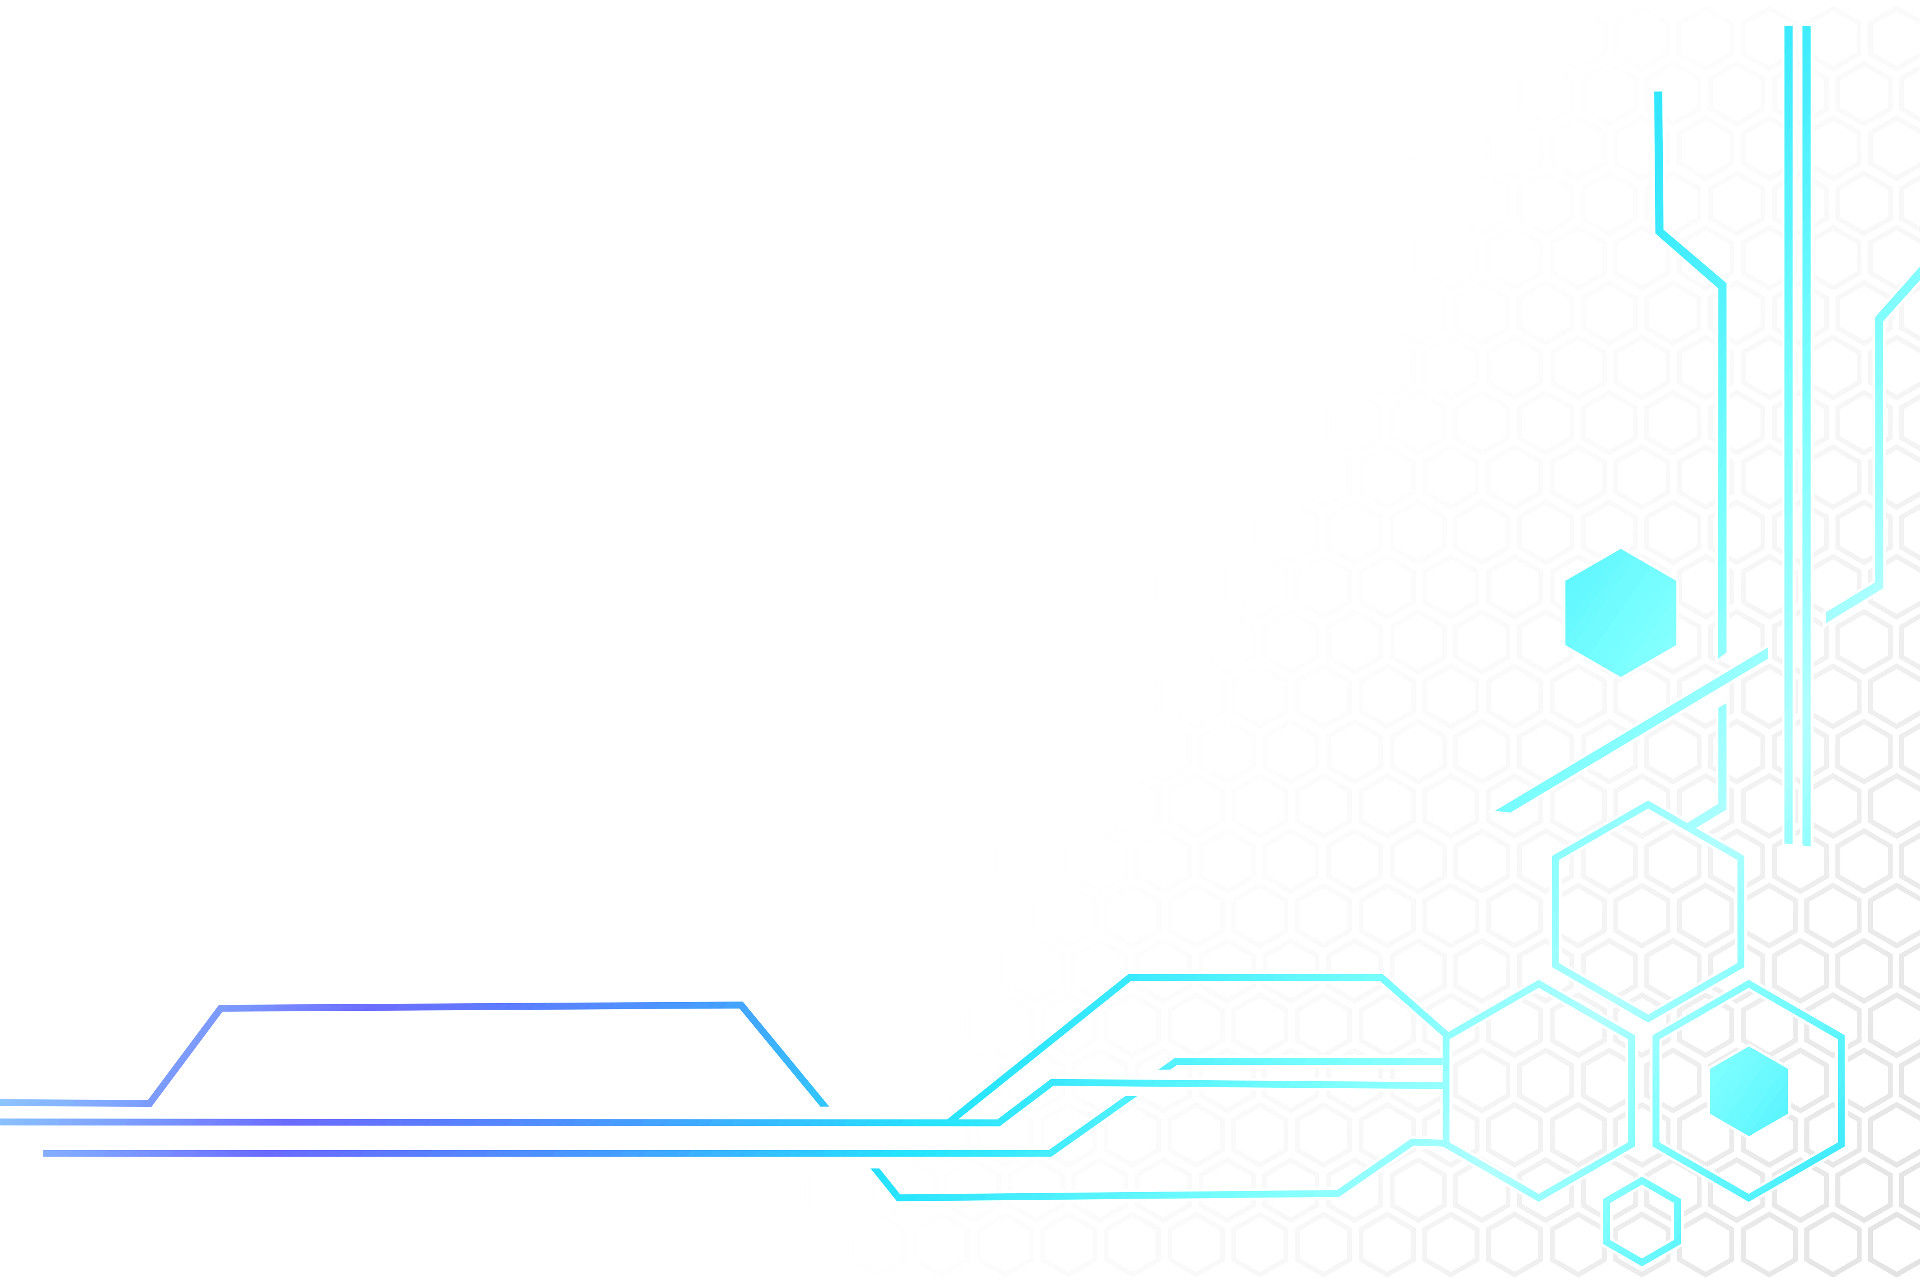
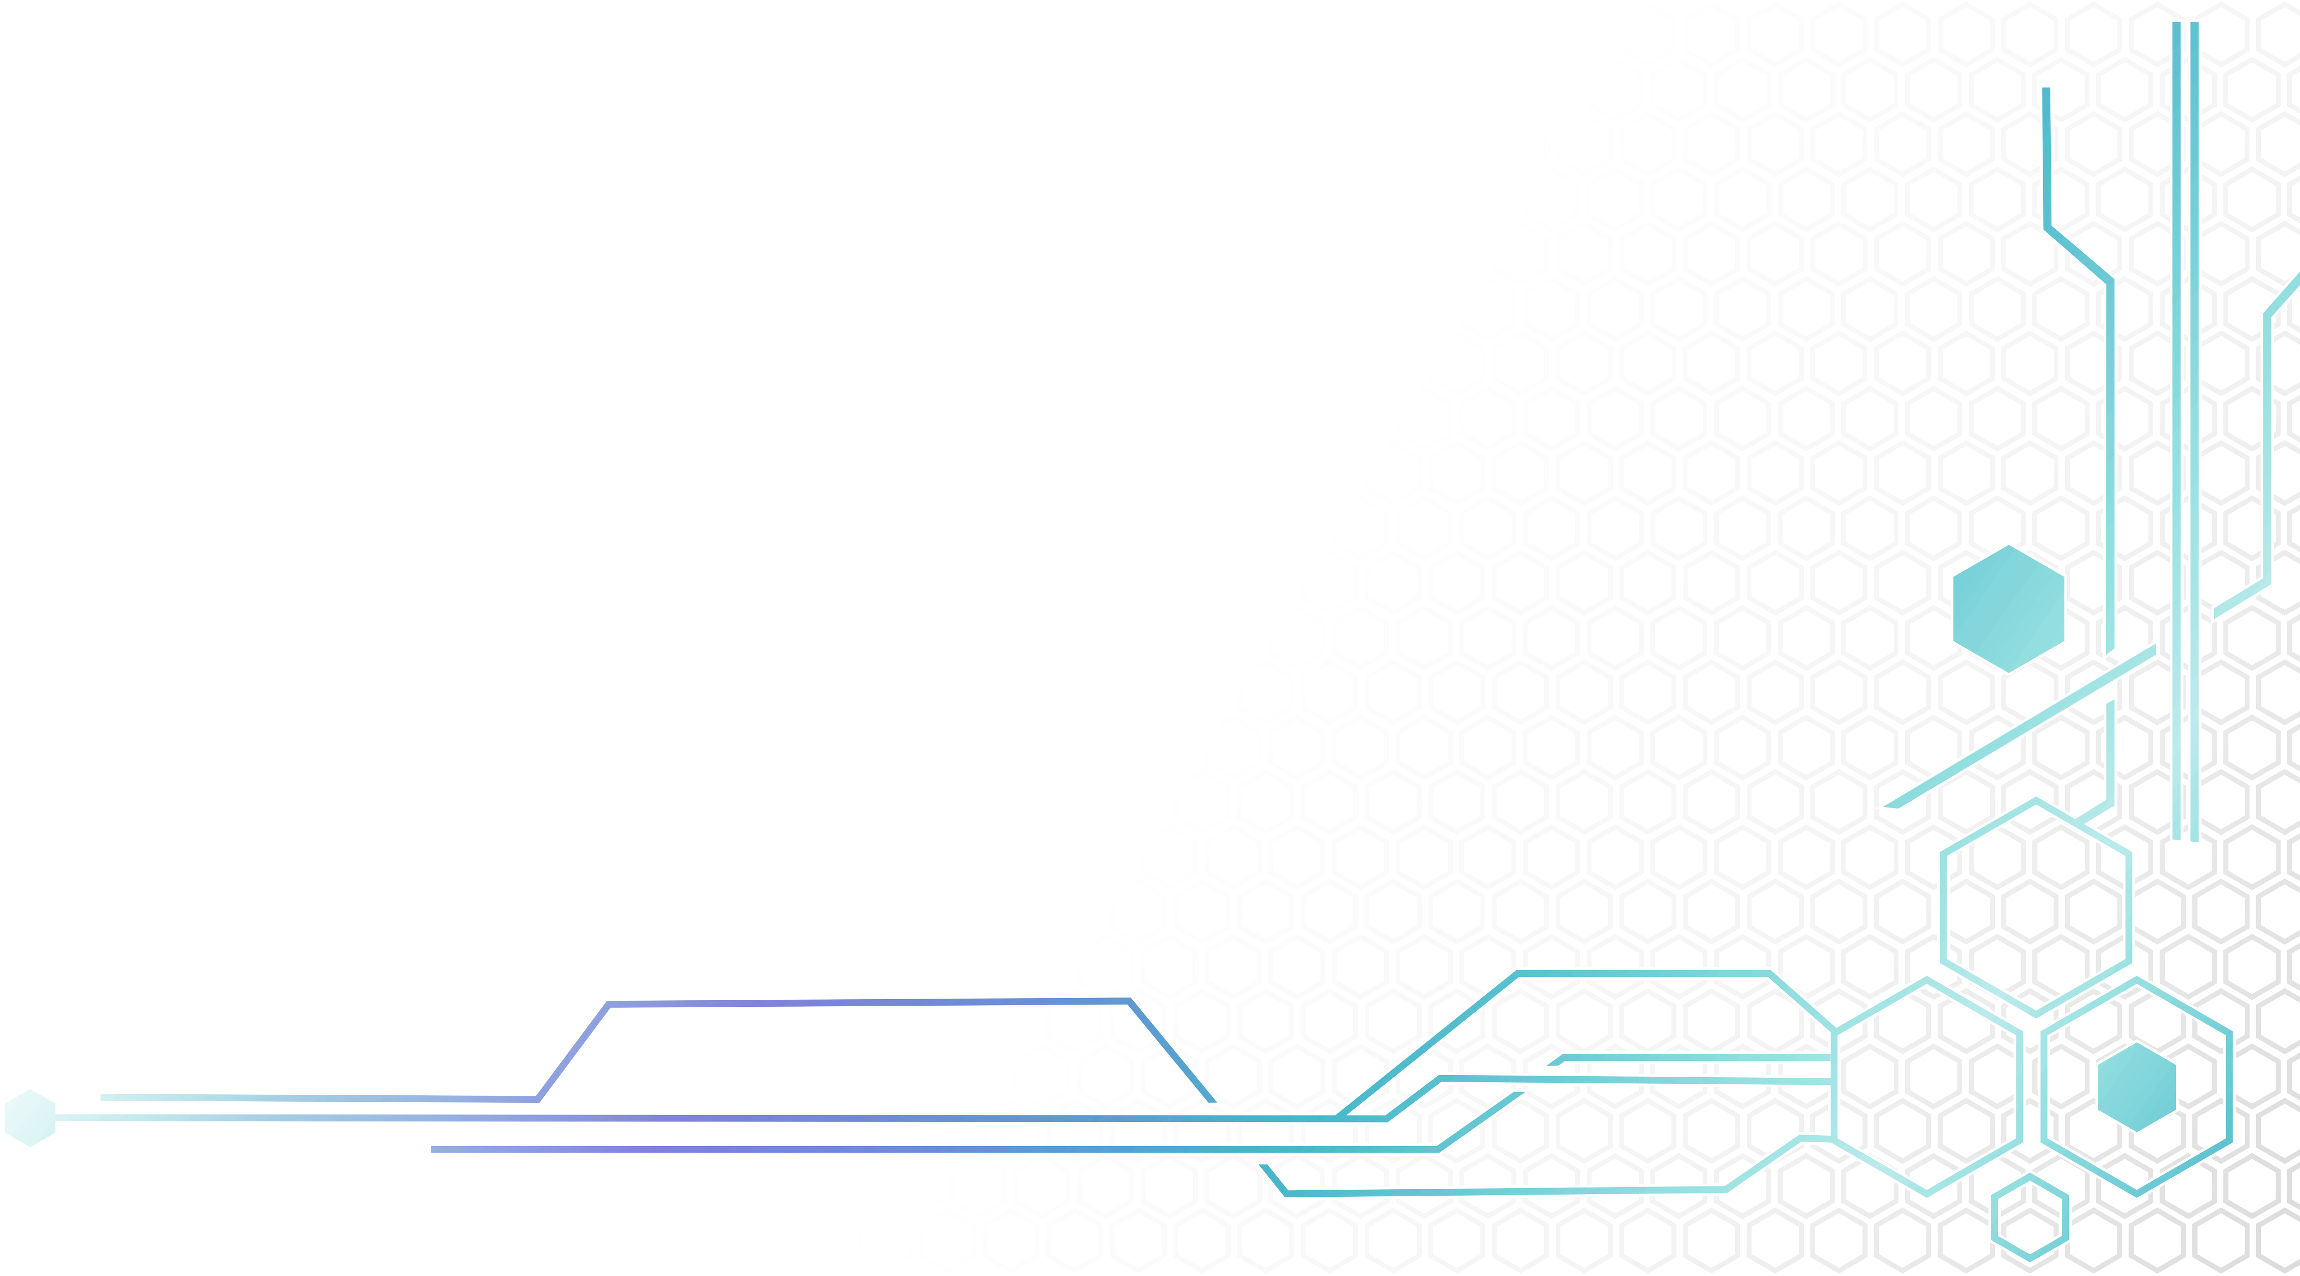
Prototype 1

diff --git a/css/main.css b/css/main.css
@@ -1,9 +1,9 @@
 :root {
-    --space-1: .5rem;
-    --space-2: 1.0rem;
-    --space-3: 1.5rem;
-    --space-4: 2.0rem;
-    --site-color: #cecece;
+    --site-color: #89dadd;
+    --site-mid-color: #89dadd;
+    --site-gradient-light: #b8eaea;
+    --site-gradient-dark: #88d9dc;
+    --email-icon: #83d6db;
 }
 
 html, body {
@@ -16,24 +16,32 @@ body {
     box-sizing: border-box;
     -moz-box-sizing: border-box;
     -webkit-box-sizing: border-box;
-    background-color: #333333;
-    font-family: 'Aclonica', sans-serif;
+    font-family: 'Raleway', sans-serif;
     padding:0;
     margin:0;
     color: var(--site-color);
     text-align: center;
+    background: #fff url("../img/bg.jpg") no-repeat right bottom;
+    background-size: auto 100vh;
 }
 
 .measure {
     margin: 0 auto;
-    max-width: 42rem;
+    max-width: 72rem;
 }
 
+header .measure{
+    max-width: 100vw;
+}
 
 .container {
     display: flex; 
     flex-wrap: wrap;
     justify-content: center;
+}
+
+.mt2 {
+    margin-top: 2.0rem;
 }
 
 img {
@@ -42,7 +50,6 @@ img {
 }
 
 p {
-    font-family: 'Open Sans', sans-serif;
     font-size: 1.0rem;
 }
 
@@ -54,38 +61,34 @@ a:link,
 a:visited,
 a:hover,
 a:active {
-    color: #cecece;
+    color: var(--site-color);
     text-decoration: none;
 }
 
 /* Header */
 
 .site-header {
-    background-color: #151515;
+    position: absolute;
+    top: 0;
+    left: 0;
+    z-index: 99;
     width: 100%;
-    height: 5.8rem;
-    box-shadow: 0 6px 6px #151515;
+    height: 10.0rem;
     overflow: hidden;
     padding-top: 1.0rem;
     padding-bottom: 1.0rem;
 }
 
-.site-logo-img {
-    height: 5.5rem;
-    width: auto;
-    margin: 0 20px;
-}
-
-.site-title-img {
-    height: 3.2rem;
-    width: auto;
-    margin: auto;
-}
-
-.site-github-img {
-    height: 3.5rem;
-    width: auto;
-    margin: 0 20px;
+.title {
+    margin-left: 50px;
+    font-size: 4.0rem;
+    padding: 0.6rem 1.5rem;
+    border: 6px solid #89dadd;
+    border-image-source: linear-gradient(#5cc1d0, #93dfdf);
+    border-image-slice: 10;
+    background: -webkit-linear-gradient(#5cc1d0, #93dfdf);
+    -webkit-background-clip: text;
+    -webkit-text-fill-color: transparent;
 }
 
 .site-header div {
@@ -98,10 +101,12 @@ a:active {
 .main {
     display: flex;
     flex-direction: column;
+    align-content: center;
     justify-content: center;
     overflow: hidden;
-    padding-top: 1.5rem;
-    padding-bottom: 2rem;
+    padding-top: 3.5rem;
+    padding-bottom: 3.5rem;
+    min-height: 80vh;
 }
 
 .main div {
@@ -109,16 +114,53 @@ a:active {
     margin-bottom: 0.5vh;
 }
 
+.countdown {
+    font-size: 5.0rem;
+    font-family: 'Prosto One', cursive;
+    color: var(--site-mid-color);
+    background: -webkit-linear-gradient(#88d9dc, #b8eaea);
+    -webkit-background-clip: text;
+    -webkit-text-fill-color: transparent;
+    text-align: center;
+}
+
+.countdown-text {
+    font-family: 'Prosto One', cursive;
+    margin-top: 0;
+    font-size: 1.5rem;
+}
+
+.main p {
+    padding: 2.0rem;
+    margin-left: 1.0rem;
+    margin-right: 1.0rem;
+}
+
+.main h1 {
+    padding: 2.0rem;
+    margin-left: 1.0rem;
+    margin-right: 1.0rem;
+    line-height: 2.0rem;
+    font-size: 1.4rem;
+}
+
+.fa-envelope {
+    font-size: 3.8rem;
+    color: var(--email-icon);
+    background: -webkit-linear-gradient(4.5rad, #b8eaea, #578dcf);
+    -webkit-background-clip: text;
+    -webkit-text-fill-color: transparent;
+}
+
+
 /* Footer */
 
 footer {
-    height: 36px;
+    height: 7.0rem;
     width: 100%;
-    padding-top: 10px;
-    background-color: #151515;
-    display: flex;
-    justify-content: center;
-    box-shadow: 0 -6px 6px #151515;
+    position: absolute;
+    bottom: 0;
+    background-color: rgba(255, 255, 255, 0.2);
 }
 
 .spacer {

diff --git a/index.html b/index.html
@@ -8,9 +8,10 @@
 
     <title>Title</title>
 
-    <link rel="stylesheet" href="https://fonts.googleapis.com/css?family=Aclonica|Open+Sans" type="text/css">
+    <link rel="stylesheet" href="//fonts.googleapis.com/css?family=Prosto+One|Raleway">
     <link rel="stylesheet" href="https://maxcdn.bootstrapcdn.com/font-awesome/4.7.0/css/font-awesome.min.css" type="text/css">
     <link rel="stylesheet" href="css/main.css" type="text/css">
+    <script src="js/countdown.js"></script>
 
     <!-- Icon -->
     <!--<link rel="apple-touch-icon" sizes="57x57" href="/ico/apple-icon-57x57.png">-->
@@ -32,18 +33,27 @@
     <!--<meta name="theme-color" content="#ffffff">-->
 </head>
 
+
+
 <body>
     <header class="site-header">
         <div class="measure container space-between">
-            <a href="index.html">Title</a>
+            <a class="title text-effect border" href="index.html">JTHEREUM</a>
         </div>
     </header>
 
     <div class="main measure">
+        <div class="empty"></div>
+        <div class="mt2">
+            <div class="countdown gradient" id="countdown" ></div>
+            <h2 class="countdown-text">Days | Hours | Minutes | Seconds</h2>
+        </div>
+        <a href="mailto:silas.reinagel@gmail.com">
+            <div class="mt2">
+                <h1>The Jthereum private beta is coming.<br>Submit your email to receive an invite.</h1>
+                <i class="fa fa-envelope" aria-hidden="true"></i>
+            </div>
+        </a>
     </div>
-
-    <footer>
-        <div><i class="fa fa-copyright" aria-hidden="true"></i> 2018 Silas Reinagel</div>
-    </footer>
 </body>
 </html>

diff --git a/js/countdown.js b/js/countdown.js
@@ -1,0 +1,28 @@
+var countDownDate = new Date("Sept 30, 2018 00:00:00").getTime();
+
+var updateTimer = function() {
+    var now = new Date().getTime();
+    var remaining = countDownDate - now;
+
+    var days = Math.floor(remaining / (1000 * 60 * 60 * 24));
+    var hours = Math.floor((remaining % (1000 * 60 * 60 * 24)) / (1000 * 60 * 60));
+    var minutes = Math.floor((remaining % (1000 * 60 * 60)) / (1000 * 60));
+    var seconds = Math.floor((remaining % (1000 * 60)) / 1000);
+
+    document.getElementById("countdown").innerHTML = pad(days, 2) + ":" + pad(hours,2) + ":"
+        + pad(minutes, 2) + ":" + pad(seconds, 2);
+
+    if (remaining < 0) {
+        clearInterval(x);
+        document.getElementById("countdown").innerHTML = "It's here!";
+    }
+};
+
+window.onload = updateTimer;
+var x = setInterval(updateTimer, 1000);
+
+function pad(n, width, z) {
+    z = z || '0';
+    n = n + '';
+    return n.length >= width ? n : new Array(width - n.length + 1).join(z) + n;
+}
